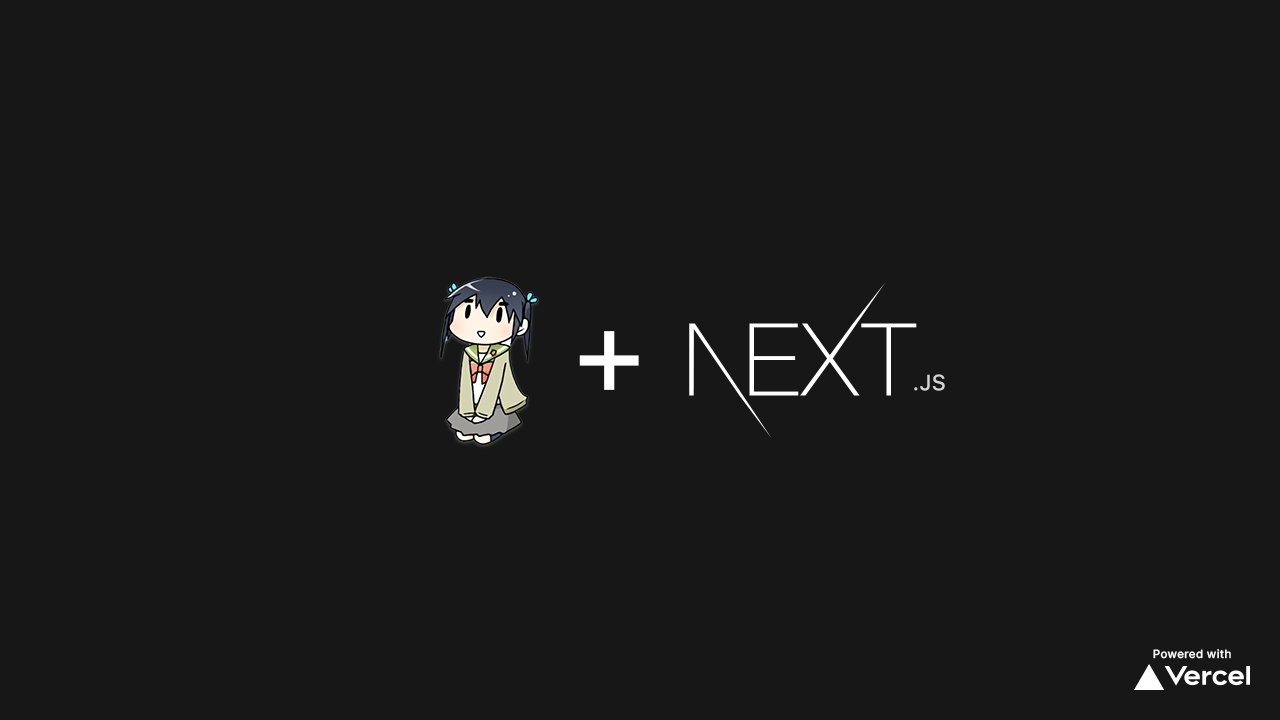
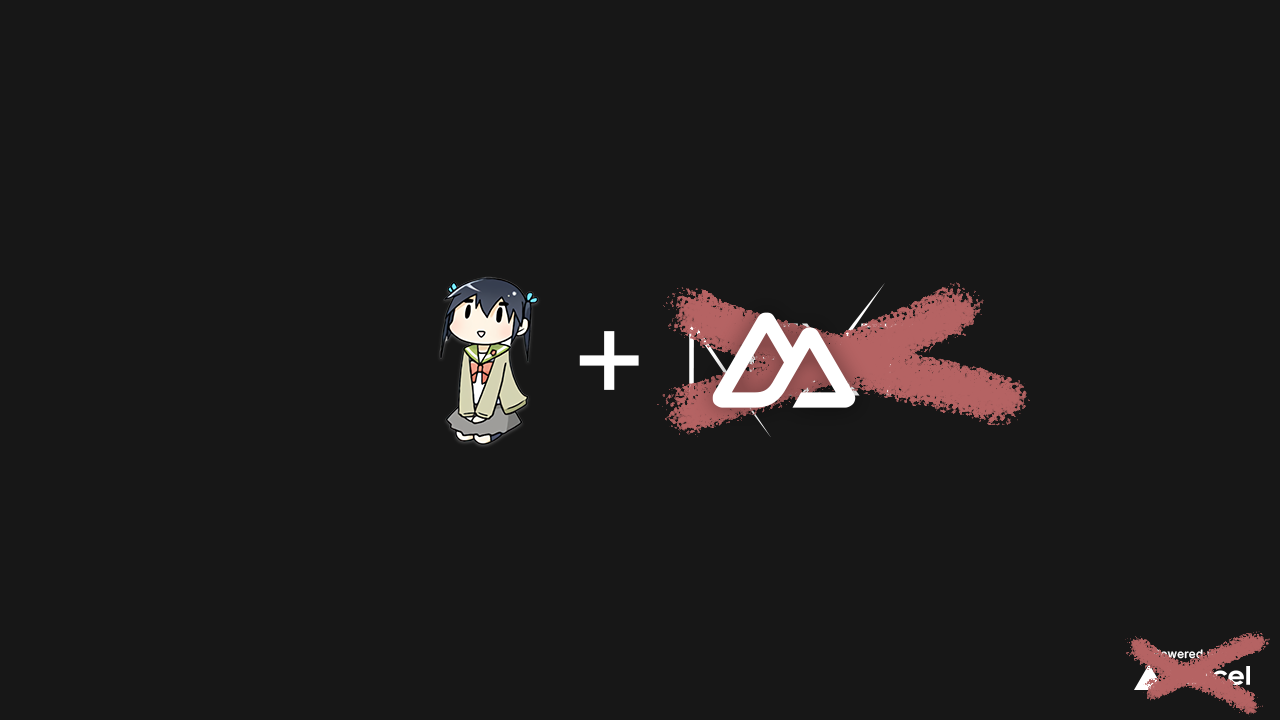
feat: new blog posts

Changed region(s): [[0.5, 0.3972, 0.8125, 0.6111], [0.875, 0.8861, 1.0, 1.0]]

diff --git a/content/id/2024-08-06-blog-migration.md b/content/id/2024-08-06-blog-migration.md
@@ -1,0 +1,75 @@
+---
+title: "Migrasi Blog ke Nuxt"
+description: "Fourth-time the charm"
+image: "/assets/images/blog-migration/ogthumb.png"
+tags:
+  - coding
+author: noaione
+---
+
+<div class="text-center">
+  <p class="font-variable variation-slant-[-10] text-[0.9rem] opacity-80">Gambar asli di buat saat blog ini masih menggunakan Next.js</p>
+</div>
+
+Jika anda tidak tahu, blog ini sudah melewati 3x iterasi sejak pertama kali dibuat.
+
+Blog ini awalnya dibuat menggunakan tema Jekyll dan di hosting di GitHub.<br />
+Saya sendiri lupa sih pakai tema apaan untuk Blog awal itu, tapi blog itu lumayan enak untuk dipakai.
+
+## Blog v1
+
+![Tampilan lama blog](/assets/images/blog-migration/blog-v1.png)
+
+Blog itu dipakai dari 2019, dengan modifikasi oleh saya sendiri untuk nambah beberapa fitur tambahan seperti VideoJS.
+
+Setelah itu sekitar awal tahun 2021, saya pindah atau lebih tempatnya coba-coba Hugo, nemu theme yang lumayan enak yaitu [uBlogger](https://github.com/uPagge/uBlogger).
+
+## Blog v2
+
+![Tampilan blog dengan uBlogger dan Hugo](/assets/images/blog-migration/blog-v2.png)
+
+Menurut saya sendiri, uBlogger dan Hugo punya fitur yang lumayan enak. Tapi terlalu ribet untuk tak otak atik jadi gak terlalu melakukan banyak perubahan.
+
+Perubahannya rata-rata cuma penyesuaian untuk penggunaan pribadi.
+
+## Blog v3
+
+![Tampilan blog dengan Next.js](/assets/images/blog-migration/blog-v3.png)
+
+Maju ke 2021 pada bulan Mei awal-awal, saya mau coba migrasi blog lagi dari Hugo ke Next.JS atau Gatsby. Setelah panjang mencari solusi, akhirnya dapet sebuah tema yang lumayan
+yaitu [Tailwind Nextjs Starter Blog](https://github.com/timlrx/tailwind-nextjs-starter-blog).
+
+Tema ini menggunakan Tailwind yang saya sendiri cukup familiar, dan karena akhir-akhir ini juga mulai belajar Next.JS dan React hidup jadi lebih mudah jika ingin buat modifikasi karena saya sendiri lumayan mengerti cara menggunakan React.
+
+Pas awal-awal coba pake blog itu, banyak sekali fitur yang tak pakai dari web Hugo tapi tidak ada di versi ini. Salah satunya fitur i18n. Akhirnya mulailah tak rombak base codenya agar sesuai dengan yang tak butuhkan.
+
+Jadilah blog baru ini, dibuat dengan menggunakan framework Next.JS + ReactJS dan dengan bantuan TailwindCSS.
+
+## Blog v4
+
+![Tampilan blog dengan Nuxt](/assets/images/blog-migration/blog-v4.png)
+
+Dengan basis dari v3, blog saya rewrite total karena ada masalah hosting di Vercel. Akhirnya tak ubah ke Nuxt + Vue 3 karena pengen
+aja gitu nyoba Nuxt Content dan lain-lain.
+
+Website masih pake stack yang sama kurang lebih tetapi diubah dari React ke Vue dan framework dari Next.js ke Nuxt
+
+Beberapa hal dihapus seperti:
+
+- Laman Proyek
+- Sistem upvote/downvote
+
+Beberapa hal diubah:
+
+- Website lebih "minimal" dengan font monospaced-sans (Monaspace Xenon)
+- Beberapa font lebih dikecilkan
+- Simplifikasi kode, sekarang lebih tidak ribet untuk nambah hal baru
+- Simplifikasi lokalisasi, sekarang lebih mudah untuk nambah bahasa baru
+- Area teks lebih lebar
+- Pemindahan beberapa API ke server sendiri
+
+Beberapa hal baru:
+
+- _Support_ untuk penulis lebih dari satu
+- Perbaikan typography/penulisan seperti _title case_ dan lain-lain
+

diff --git a/content/id/2021-03-09-devops-hell-naotimes.md b/content/id/2021-03-09-devops-hell-naotimes.md
@@ -11,7 +11,7 @@ tags:
 ---
 
 <div class="text-center">
-  <p class="italic">Postigan ini merupakan pos pertama dari seri DevOps Hell</p>
+  <p class="font-variable variation-slant-[-10]">Postigan ini merupakan pos pertama dari seri DevOps Hell</p>
 </div>
 
 naoTimes adalah bot Discord yang tak buat untuk tracking garapan Fansub, Bot ini juga bisa melakukan berbagai hal lain.
